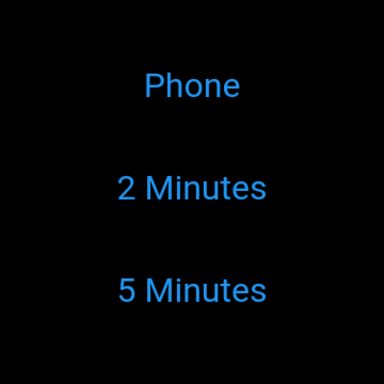
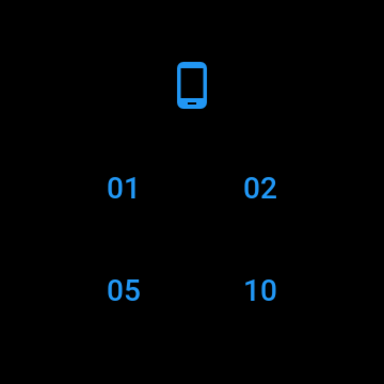
#6: Add additional menu presets

Changed region(s): [[0.2812, 0.4375, 0.7188, 0.5312], [0.2812, 0.7188, 0.7188, 0.8125], [0.375, 0.1562, 0.625, 0.2812]]

diff --git a/lib/main.dart b/lib/main.dart
@@ -58,8 +58,10 @@ class HomeWidget extends StatefulWidget {
 
   static const List<String> presets = [
     HomeWidget.phonePreference,
-    "2 Minutes",
-    "5 Minutes",
+    "01",
+    "02",
+    "05",
+    "10",
   ];
 
   @override
@@ -411,13 +413,13 @@ class _HomeWidgetState extends State<HomeWidget>
           ));
         }
       } else if (value == HomeWidget.presets[1]) {
-        _preference = Preference.getDefaultPref()
-          ..duration = 120
-          ..name = value;
+        _preference = Preference.getDefaultPref()..duration = 60;
       } else if (value == HomeWidget.presets[2]) {
-        _preference = Preference.getDefaultPref()
-          ..duration = 300
-          ..name = value;
+        _preference = Preference.getDefaultPref()..duration = 120;
+      } else if (value == HomeWidget.presets[3]) {
+        _preference = Preference.getDefaultPref()..duration = 300;
+      } else if (value == HomeWidget.presets[4]) {
+        _preference = Preference.getDefaultPref()..duration = 600;
       } else {
         _preference = Preference.getDefaultPref();
       }
@@ -460,7 +462,7 @@ class _HomeWidgetState extends State<HomeWidget>
     return const SizedBox.shrink();
   }
 
-  List<Widget> _getActions(double rightPad, double topPad, double prefWidth) {
+  List<Widget> _getActions(double rightPad, double topPad) {
     if (!_isRunning) {
       return [
         PopupMenuButton<String>(
@@ -472,20 +474,69 @@ class _HomeWidgetState extends State<HomeWidget>
             _updatePreference(value);
           },
           itemBuilder: (BuildContext context) {
-            return HomeWidget.presets.map((String choice) {
-              return PopupMenuItem<String>(
-                value: choice,
-                child: SizedBox(
-                  width: prefWidth,
-                  child: Text(choice,
-                      key: Key(choice),
-                      textAlign: TextAlign.center,
-                      style: TextStyle(
-                        color: Theme.of(context).primaryColor,
-                      )),
+            return [
+              PopupMenuItem(
+                child: Padding(
+                  padding: const EdgeInsets.only(left: 0, bottom: 0),
+                  child: Column(
+                    children: <Widget>[
+                      Row(
+                        mainAxisAlignment: MainAxisAlignment.center,
+                        children: [
+                          IconButton(
+                            key: Key(HomeWidget.presets[0]),
+                            icon: Icon(Icons.phone_android,
+                                color: Theme.of(context).primaryColor),
+                            onPressed: () {
+                              Navigator.pop(context, HomeWidget.presets[0]);
+                            },
+                          ),
+                        ],
+                      ),
+                      Row(
+                        mainAxisAlignment: MainAxisAlignment.center,
+                        children: [
+                          TextButton(
+                            key: Key(HomeWidget.presets[1]),
+                            onPressed: () {
+                              Navigator.pop(context, HomeWidget.presets[1]);
+                            },
+                            child: Text(HomeWidget.presets[1]),
+                          ),
+                          TextButton(
+                            key: Key(HomeWidget.presets[2]),
+                            onPressed: () {
+                              Navigator.pop(context, HomeWidget.presets[2]);
+                            },
+                            child: Text(HomeWidget.presets[2]),
+                          ),
+                        ],
+                      ),
+                      Row(
+                        mainAxisAlignment: MainAxisAlignment.center,
+                        children: [
+                          TextButton(
+                            key: Key(HomeWidget.presets[3]),
+                            onPressed: () {
+                              Navigator.pop(context, HomeWidget.presets[3]);
+                            },
+                            child: Text(HomeWidget.presets[3]),
+                          ),
+                          TextButton(
+                            key: Key(HomeWidget.presets[4]),
+                            onPressed: () {
+                              Navigator.pop(context, HomeWidget.presets[4]);
+                            },
+                            child: Text(HomeWidget.presets[4]),
+                          ),
+                        ],
+                      ),
+                      const SizedBox(height: 20),
+                    ],
+                  ),
                 ),
-              );
-            }).toList();
+              )
+            ];
           },
         )
       ];
@@ -537,13 +588,11 @@ class _HomeWidgetState extends State<HomeWidget>
             rightPad = 0.0,
             topPad = 0.0,
             fontSize = 10.0,
-            prefWidth = 150,
             iconSize = 40.0;
         if (shape == WearShape.round) {
           leftPad = 30.0;
           rightPad = 35.0;
           topPad = 30.0;
-          prefWidth = 125;
         }
         return Scaffold(
           appBar: AppBar(
@@ -557,7 +606,7 @@ class _HomeWidgetState extends State<HomeWidget>
                           fontSize: fontSize))),
               backgroundColor: Colors.transparent,
               elevation: 0,
-              actions: _getActions(rightPad, topPad, prefWidth)),
+              actions: _getActions(rightPad, topPad)),
           extendBodyBehindAppBar: true,
           body: Column(
             mainAxisAlignment: MainAxisAlignment.center,

diff --git a/test/home_widget_test.dart b/test/home_widget_test.dart
@@ -89,7 +89,7 @@ Future<void> testHomeWidget(WidgetTester tester) async {
 
   // Tap preset
   preference = Preference.getDefaultPref()..duration = 120;
-  finder = find.byKey(Key(HomeWidget.presets[1]));
+  finder = find.byKey(Key(HomeWidget.presets[2]));
   expect(finder, findsOneWidget);
   await tester.ensureVisible(finder);
   await tester.pumpAndSettle();
@@ -104,7 +104,7 @@ Future<void> testHomeWidget(WidgetTester tester) async {
 
   // Tap preset
   preference = Preference.getDefaultPref()..duration = 300;
-  finder = find.byKey(Key(HomeWidget.presets[2]));
+  finder = find.byKey(Key(HomeWidget.presets[3]));
   expect(finder, findsOneWidget);
   await tester.ensureVisible(finder);
   await tester.pumpAndSettle();

diff --git a/integration_test/demo_test.dart b/integration_test/demo_test.dart
@@ -1,7 +1,7 @@
 // To execute demo run:
 // flutter test integration_test/demo_test.dart
 // To execute demo with screenshots saved run:
-// flutter drive --no-pub --driver=integration_test/driver.dart --target=integration_test/demo_test.dart
+// flutter drive -d emulator-5554 --no-pub --driver=integration_test/driver.dart --target=integration_test/demo_test.dart
 // To execute demo script run:
 // ../brethap/screenshots/demo.sh emulator-5554
 

diff --git a/integration_test/app_test.dart b/integration_test/app_test.dart
@@ -1,5 +1,5 @@
 // To execute integration test run:
-// flutter drive --no-pub --driver=integration_test/driver.dart --target=integration_test/app_test.dart
+// flutter drive -d emulator-5554 --no-pub --driver=integration_test/driver.dart --target=integration_test/app_test.dart
 
 import 'package:flutter/material.dart';
 import 'package:flutter_test/flutter_test.dart';
